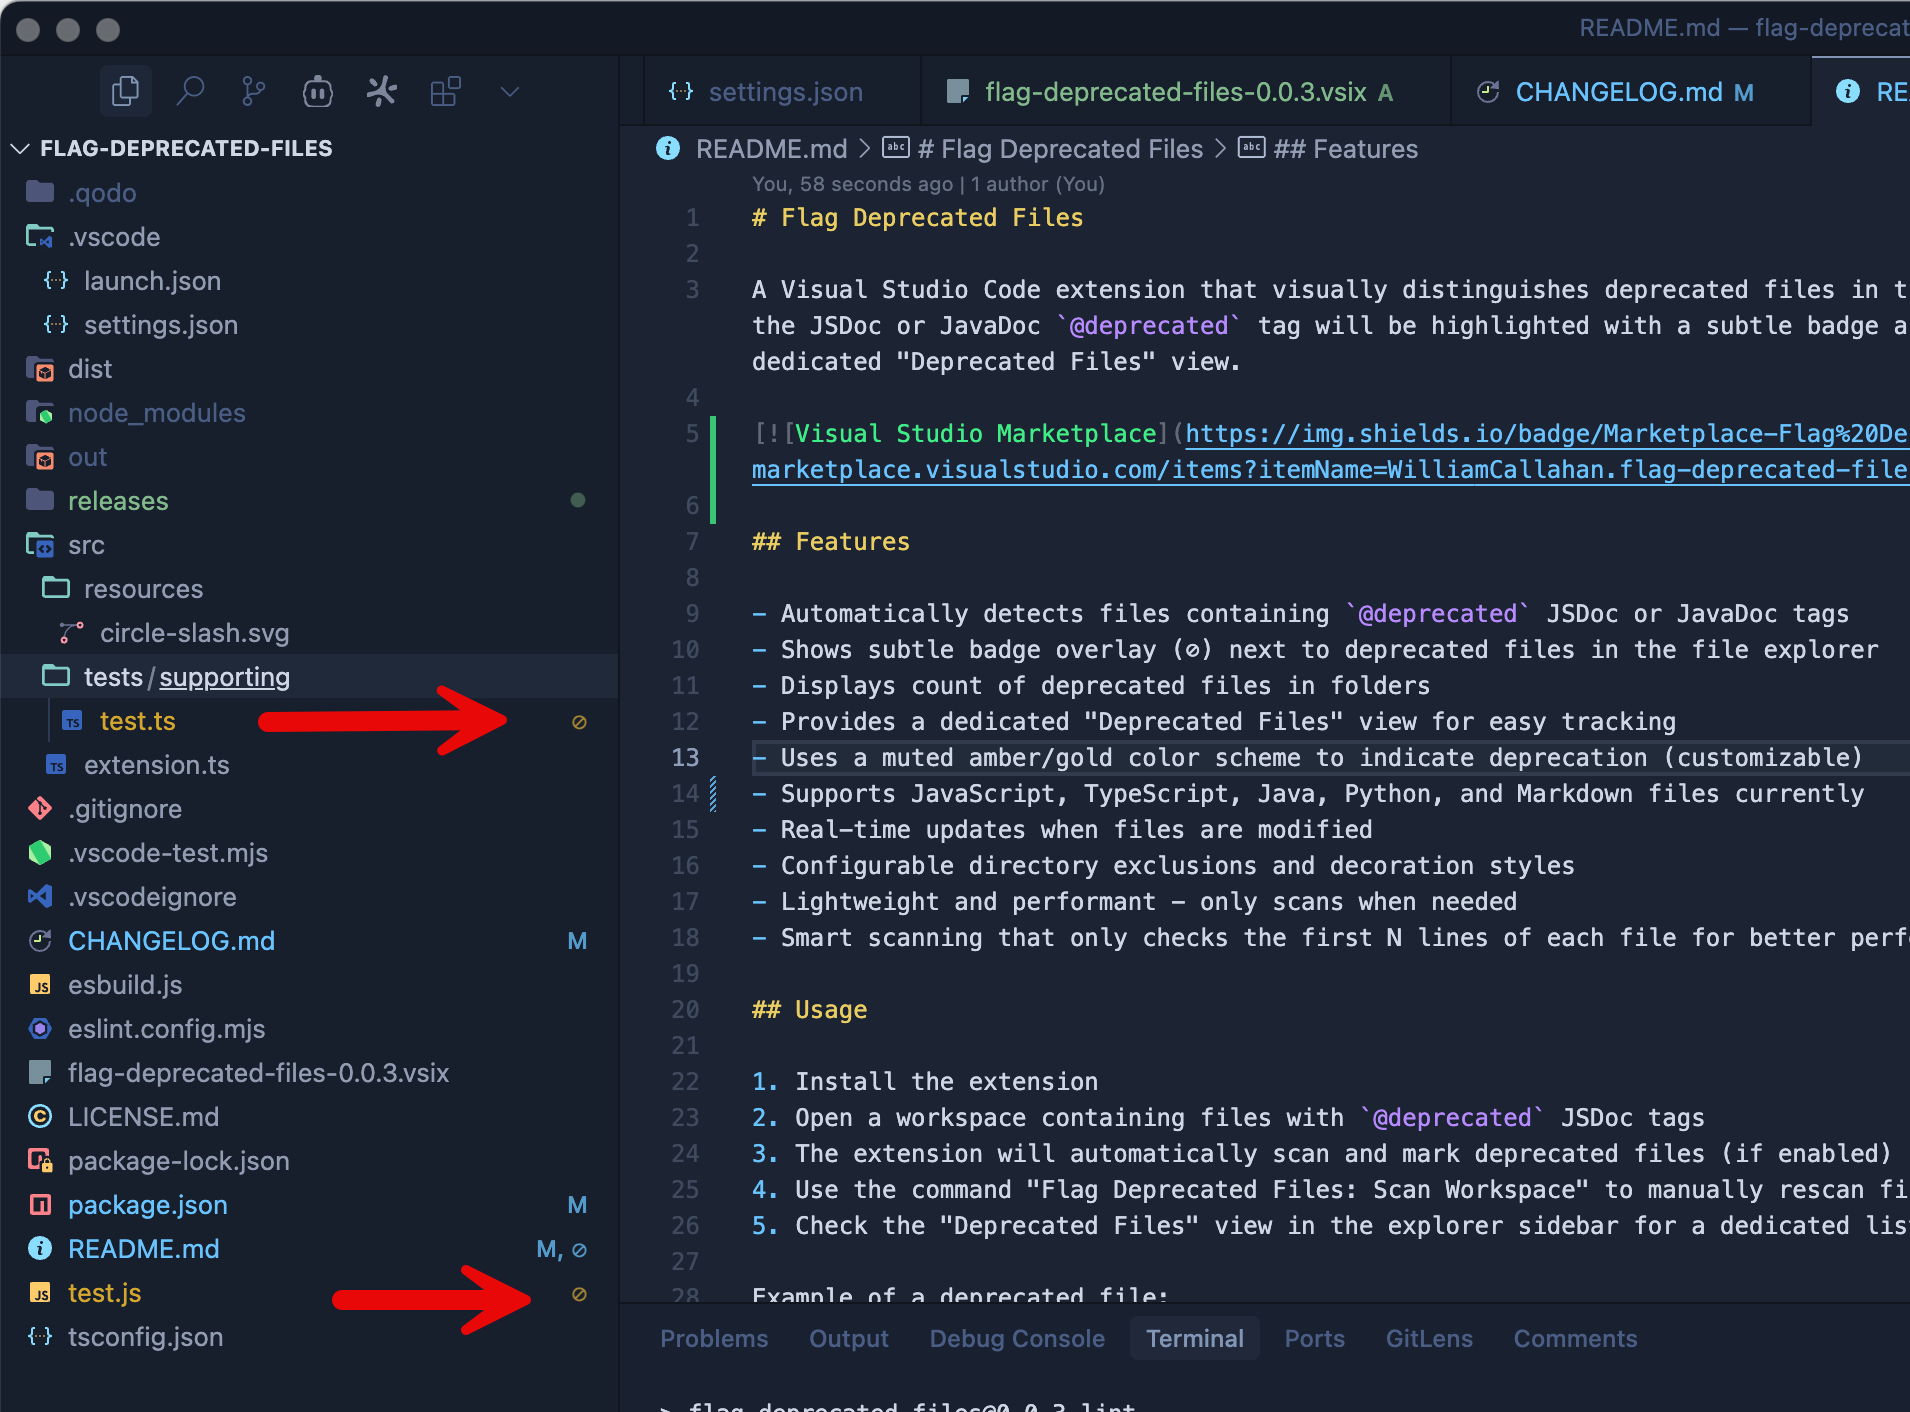
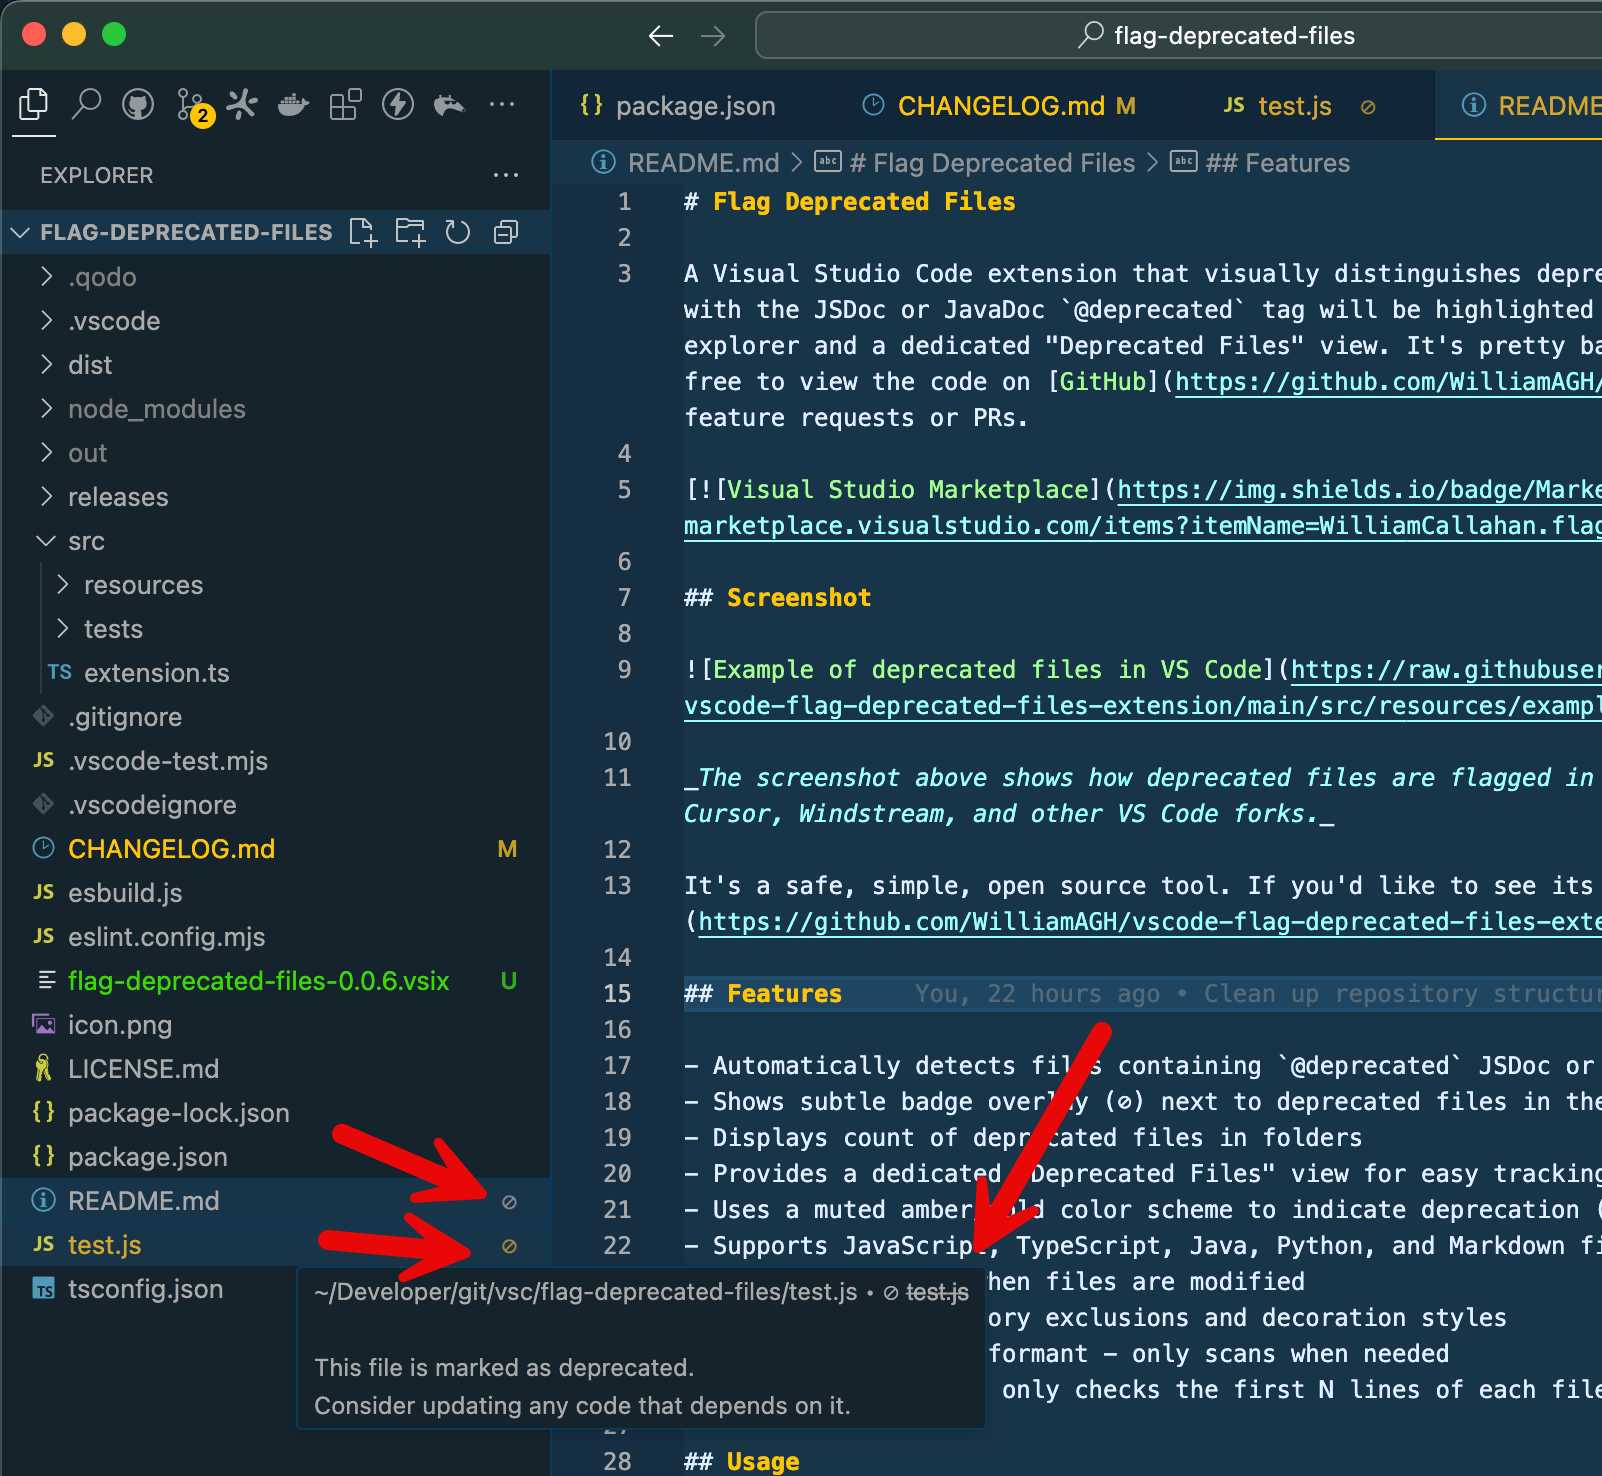
Update screenshot to show examples of usage in File Explorer

Changed region(s): [[0.0, 0.0, 1.0, 1.0]]

diff --git a/CHANGELOG.md b/CHANGELOG.md
@@ -1,10 +1,14 @@
 # Change Log
 
+## [v0.0.6]
+
+- Changed icon for app in VSCode Marketplace
+
 ## [v0.0.5]
 
 March 25, 2025
 
-- Added icon and screenshot to README for release on the [Microsoft Visual Studio Code Marketplace](https://marketplace.visualstudio.com/items?itemName=WilliamCallahan.flag-deprecated-files) and the [Open VSX Registry](https://open-vsx.org/extension/williamcallahan/flag-deprecated-files)
+- Added screenshot to README for release on the [Microsoft Visual Studio Code Marketplace](https://marketplace.visualstudio.com/items?itemName=WilliamCallahan.flag-deprecated-files) and the [Open VSX Registry](https://open-vsx.org/extension/williamcallahan/flag-deprecated-files)
 
 ## [v0.0.4]
 
